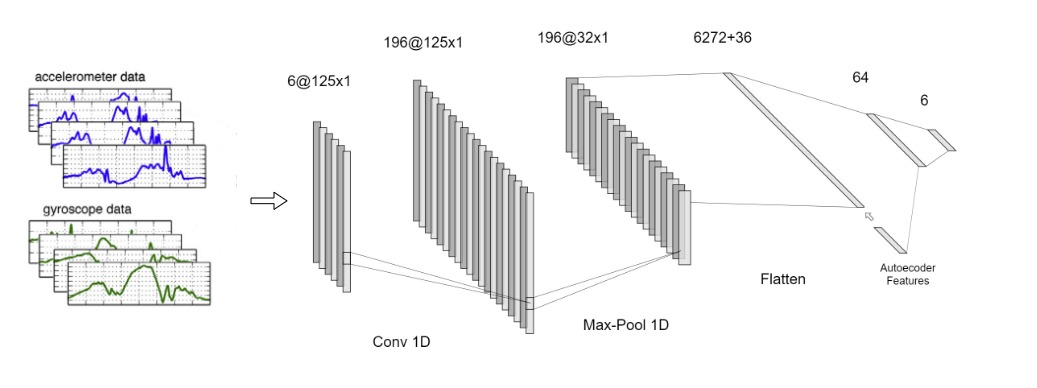
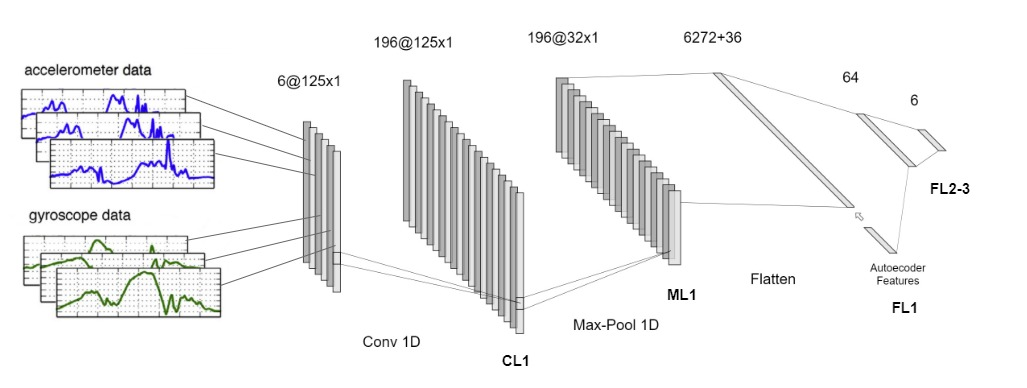
Fixed typos, and images of paper, re-adapted paper structure

diff --git a/paper/model.tex b/paper/model.tex
@@ -218,9 +218,6 @@ of information.
 	\label{fig:proposed-architecture}
 \end{figure*}
 
-In this section we will present our proposed architecture for HAR \textit{``in-the-wild''} problem. We will see how the autoencoder and the CNN are
-trained, their parameters, and the optimization strategies adopted.
-
 \subsection{Autoencoder}
 \label{subsec:autoencoder}
 
@@ -297,7 +294,7 @@ The final CNN architecture proposed in this work is shown in Fig. \ref{fig:propo
 
 In detail we have the following stacked layers (CL=Convolutional Layer, ML=Max-pooling Layer, FL= Fully-connected Layer):
 \begin{itemize}
-	\item \textbf{CL1}: The first convolutional layer is performing a Convolution 1D over the input signal. It is composed of 196 filters of size ($1\times16$). Since, a convolution is defined over all the input channels, in this layer we are capturing relation among accellerometer and gyroscope data. The stride is set to 1, and the padding is configured as 'same' to have the same output dimension as the original one. After the convolution operation, we apply a $ReLU(x)=\max(0,x)$ activation function to learn non-linear correlation between signals and extract richer features. Furthermore, even if we are dealing with a small architecture, $ReLU$ activation function could prevent vanishing gradient problems, is less prone to overfitting since it induces the sparsity in the hidden units and it is extremely fast to compute, making it perfect when dealing with low computational resources.
+	\item \textbf{CL1}: The first convolutional layer is performing a Convolution 1D over the input signal. It is composed of 196 filters of size ($1\times16$). Since, a convolution is defined over all the input channels, in this layer we are also capturing relation among accelerometer and gyroscope signals. The stride is set to 1, and the padding is configured as 'same' to have the same output dimension as the original one. After the convolution operation, we apply a $ReLU(x)=\max(0,x)$ activation function to learn non-linear correlation between signals and extract richer features. Furthermore, even if we are dealing with a small architecture, $ReLU$ activation function could prevent vanishing gradient problems, is less prone to overfitting since it induces the sparsity in the hidden units and it is extremely fast to compute, making it perfect when dealing with low computational resources.
 	\item \textbf{ML1}: After the convolutional layer, usually it is apply a max-pooling or average-pooling layer to reduce and summarize the obtained representation. We decided to use max-pooling layer of size ($1\times4$), reducing by 4 times the original input shape. We call this new features representation with $ \boldsymbol{\Phi_{\text{c}} }$
 	\item \textbf{FL1}: After the convolutional layer and the max-pooling layer, the output of these layer is flattened into 6272 neurons. At this stage we decided to concatenate the encoder extracted features $ \boldsymbol{\Phi_{\text{e}}} $ with the Convolutional ones named $\boldsymbol{\Phi_{\text{c}}}$, creating our complete features vector $\boldsymbol{\Phi} = (\boldsymbol{\Phi_{\text{c}}}, \boldsymbol{\Phi_{\text{e}}})^T$ that is presented to the final fully-connected layer to perform the classification.
 	\item \textbf{FL2-3}: These two finals layers are composed of 64 dense neuron and 6 dense neurons, respectively. These two final layers are used to perform the classification of the activity. For the FC2 we use the $ReLU$ activation function and for the final classification we apply the \textit{soft-max} activation function, which computes probability distribution over the predicted classes.

diff --git a/paper/related.tex b/paper/related.tex
@@ -14,17 +14,8 @@ evaluated on two commonly used datasets UCI \cite{UCI} and WISDM \cite{WISDM} da
 demonstrates state-of-the-art performance while requiring low
 computational cost and no manual feature engineering.
 
-However the work presented up to there as well as the majority of work available in literature, test model performances in controlled environment acquired datasets, as UCI and WISDM, without considering the HAR model impairments when they are used in real use case scenarios, like mobile apps. A. Stisen et al. in \cite{stisen2015smart} studied the technical details and
+However the works presented up to there, as well as the majority of works available in literature, test model performances in controlled environment acquired datasets, as UCI and WISDM, without considering the HAR model impairments when they are used in real use case scenarios, like mobile apps. A. Stisen et al. in \cite{stisen2015smart} studied the technical details and
 problems due to heterogeneity among users, sensors and
-environment. They acquired a specific dataset that shows these etherogenities, and studied the impact onto models. Also they proposed various clustering and classification algorithms to perform HAR in these conditions.
+environment. They acquired a specific dataset that shows these heterogeneities, and studied the impact onto models. Also they proposed various clustering and classification algorithms to perform HAR in these conditions.
 
-In \cite{vaizman2018extrasensory}, authors acquired a huge in-the-wild dataset to promote practical applications that work in real-life settings. They collected the so called Extrasensory dataset \cite{EXTRASENSORY}, composed of over 300k minutes of sensor data with context labels from 60 subjects that uses their smartphones in any way that was convenient to them. They show how fusion multi-modal sensors is important for resolving the in-the-wild HAR problem.  However, they used more sensor signals like Magnetometer, Compass, GPS, Audio and Phone State in which we were not interested in. Furthermore, we see that most of the collected data contains wrong context labels, because users most of the time aren't so precise in labeling datas, that could lower performance metrics of the proposed model.   
-
-In this paper we start from the model proposed in \cite{ignatov2018real} and we show how the controlled
-environemnt influences the classification. In particular, no
-heterogeneity among devices (and sensors) leads to biased data and
-not-natural settings.  For this reason we adopt the dataset provided
-in \cite{stisen2015smart} which emphasizes devices heterogeneity.
-We further investigate the
-effectiveness of statistical/manual features which are usually not
-enough in real settings, due to the heterogeneous scenario. 
+In \cite{vaizman2018extrasensory}, authors acquired a huge in-the-wild dataset to promote practical applications that work in real-life settings. They collected the so called Extrasensory dataset \cite{EXTRASENSORY}, composed of over 300k minutes of sensor data with context labels from 60 subjects that uses their smartphones in any way that was convenient to them. They show how fusion multi-modal sensors is important for resolving the in-the-wild HAR problem.  However, they used more sensor signals like Magnetometer, Compass, GPS, Audio and Phone State in which we were not interested in. Furthermore, we see that most of the collected data contains wrong context labels, because users most of the time aren't so precise in labeling data, that could lower performance metrics of the proposed model.   

diff --git a/paper/intro.tex b/paper/intro.tex
@@ -23,12 +23,16 @@ includes for example, recognizing concurrent and composite activities
 and dealing with scarse annotated, class imbalanced and scarse user
 distributed datasets.
 
-In this paper we try to perform HAR with smartphone sensors in real
-use case scenarios, where mobile phones can be hold inside trousers
-pockets or in a pouch with different orientations, or more simply in a
-hand. This is particularly relevant when developing mobile apps
-capable of performing HAR, to improve users quality of life. We
-propose a CNN architecture augmented with features extracted from an
+In this paper we start from the model proposed in \cite{ignatov2018real} 
+and we show how the controlled environment influences the classification.
+In particular, no heterogeneity among devices (and sensors) leads to biased data and
+not-natural settings. This is not suitable when developing mobile apps
+capable of performing HAR, to improve users quality of life. For this reason we adopt the dataset provided
+in \cite{stisen2015smart} which emphasizes devices heterogeneity.
+We further investigate the
+effectiveness of statistical/manual features which are usually not
+enough in real settings, due to the heterogeneous scenario. 
+We propose a CNN architecture augmented with features extracted from an
 autoencoder, and then compare the results with other
 works. Furthermore we investigate the main benefits of a well thought-out
 pre-processing pipeline, like orientation independent transformation

diff --git a/paper/results.tex b/paper/results.tex
@@ -19,13 +19,6 @@
 \section{Results}
 \label{sec:results}
 
-In this section we will present how we selected the appropriate hyper
-parameters for the final proposed architecture presented in
-Sec. \ref{sec:learning-framework}. Then we will see how some of the
-preprocessing blocks and encoder or manual extracted features affect
-performance onto the HD. We will also show results
-for the proposed architecture with OIT applied on OD.
-
 \subsection{Heterogenity Dataset (HD)}
 \label{subsec:heterogeneity-dataset}
 
